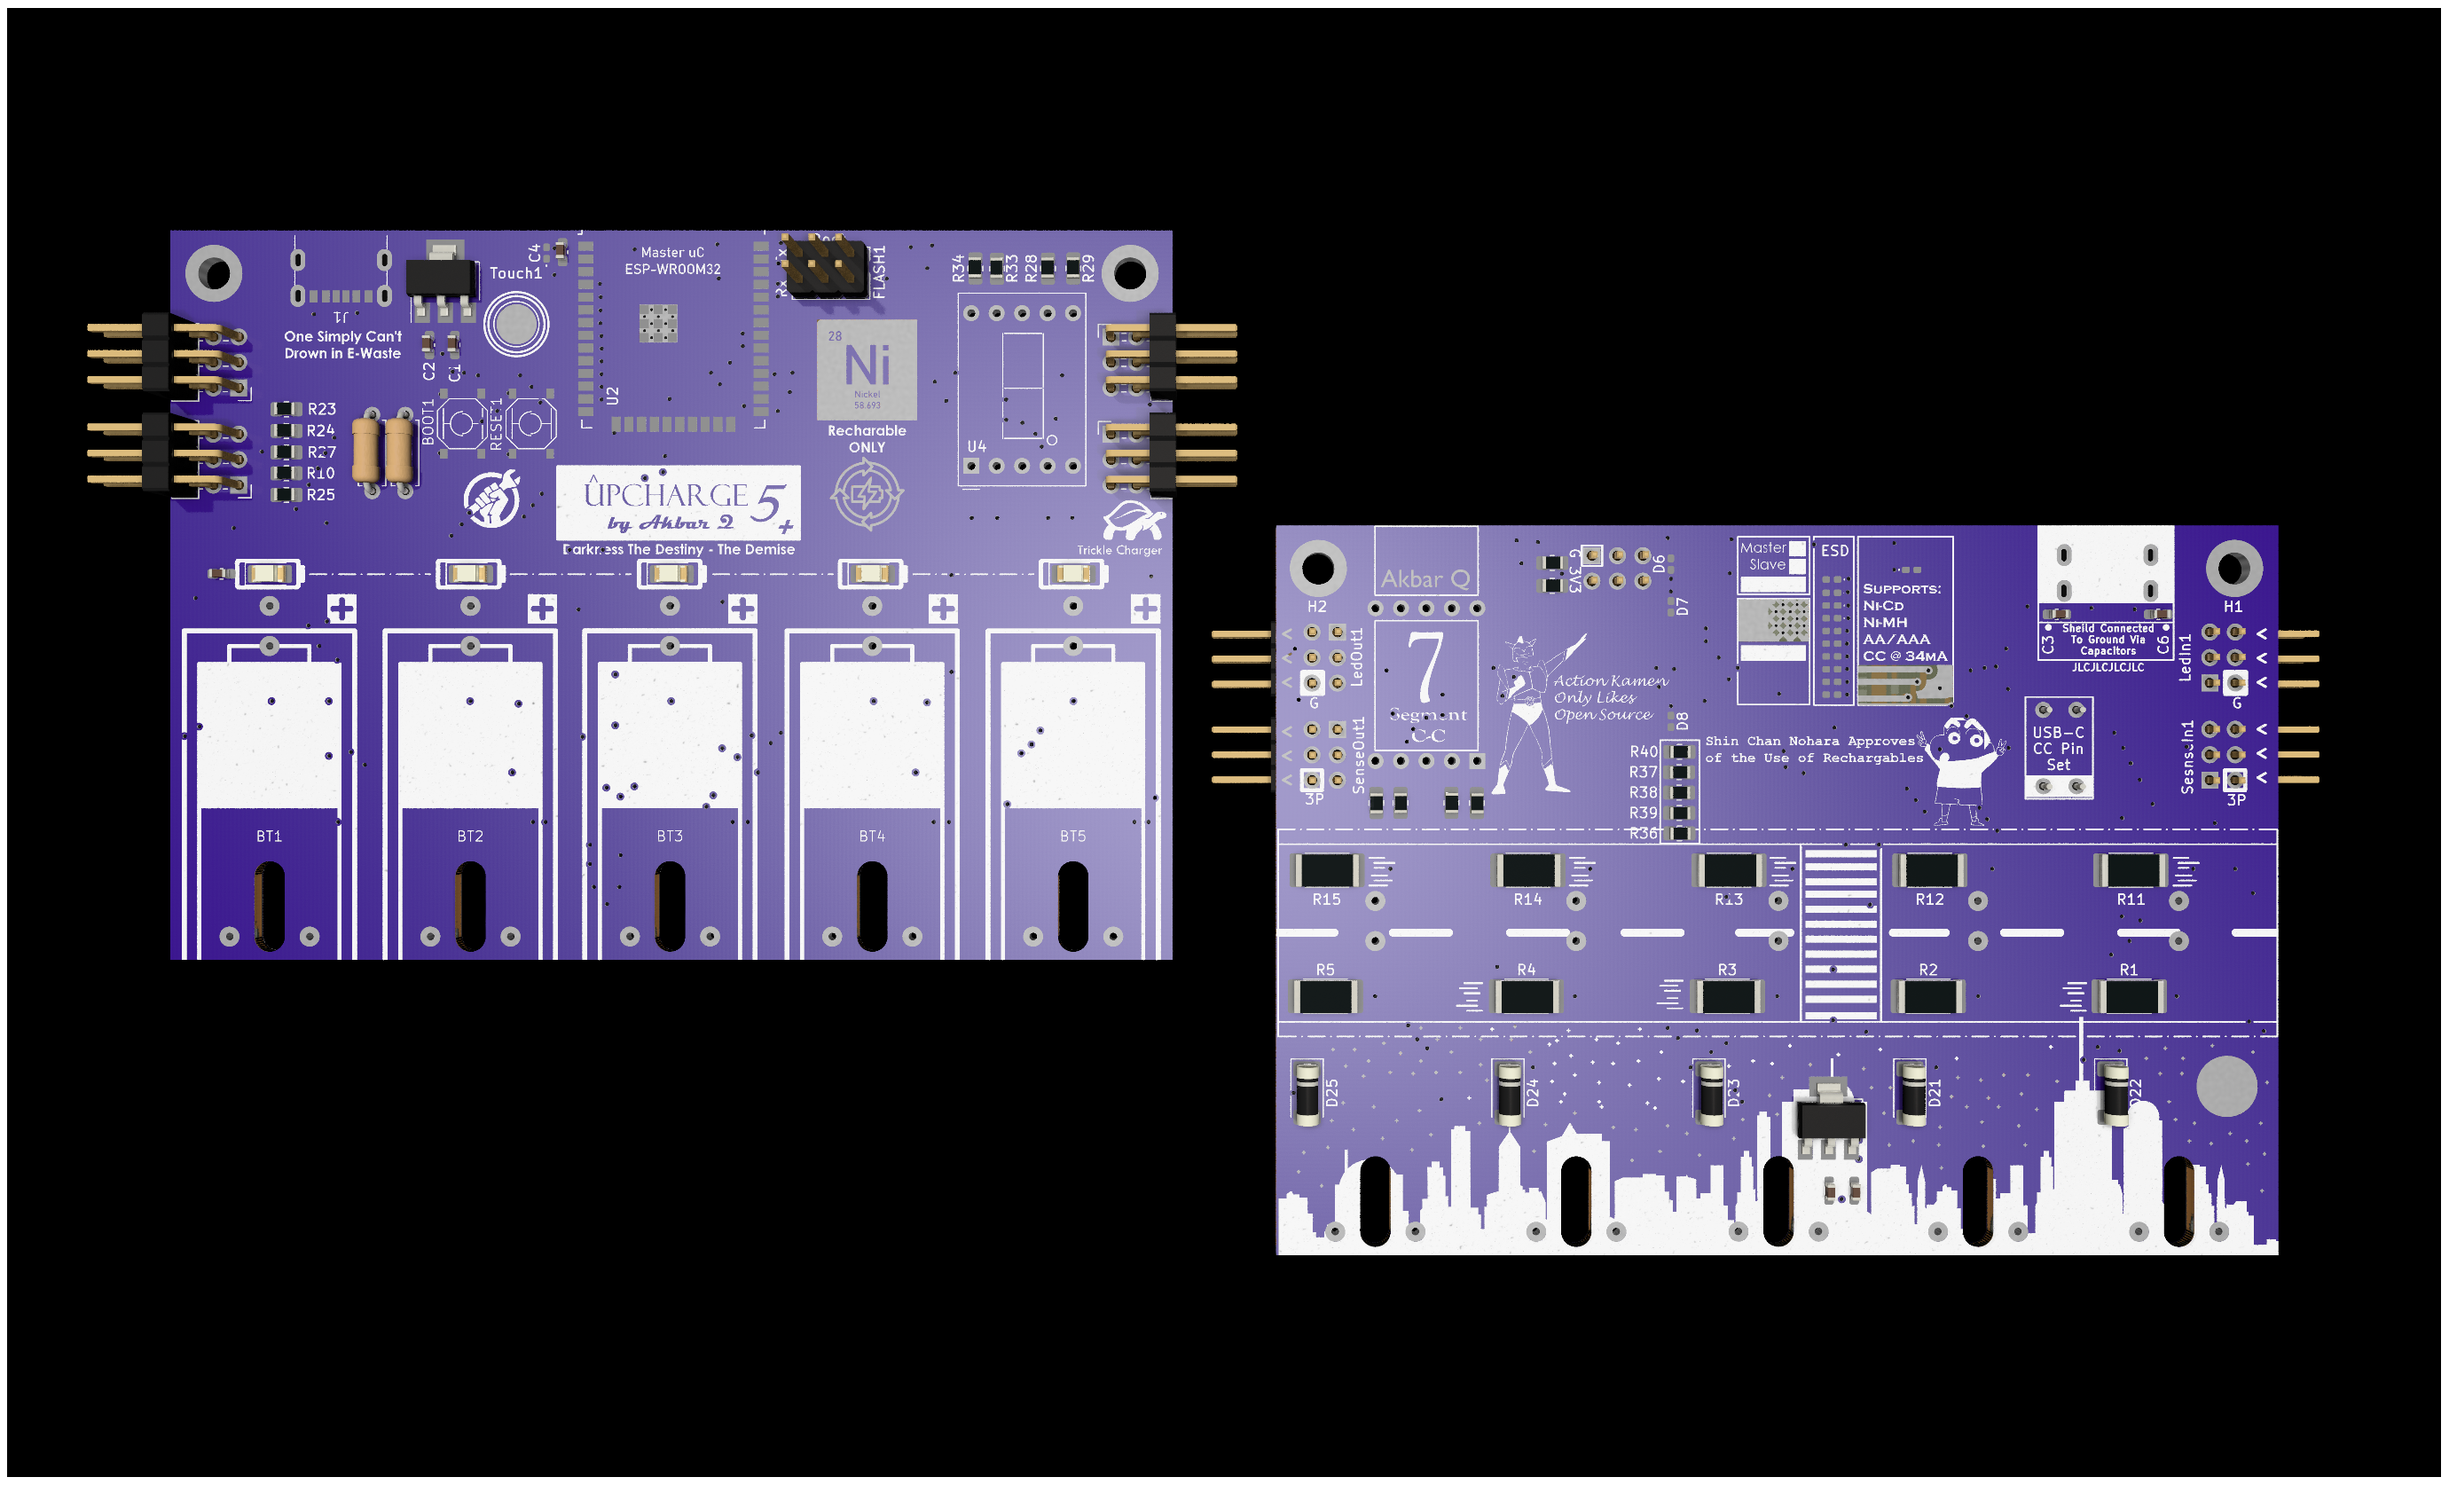
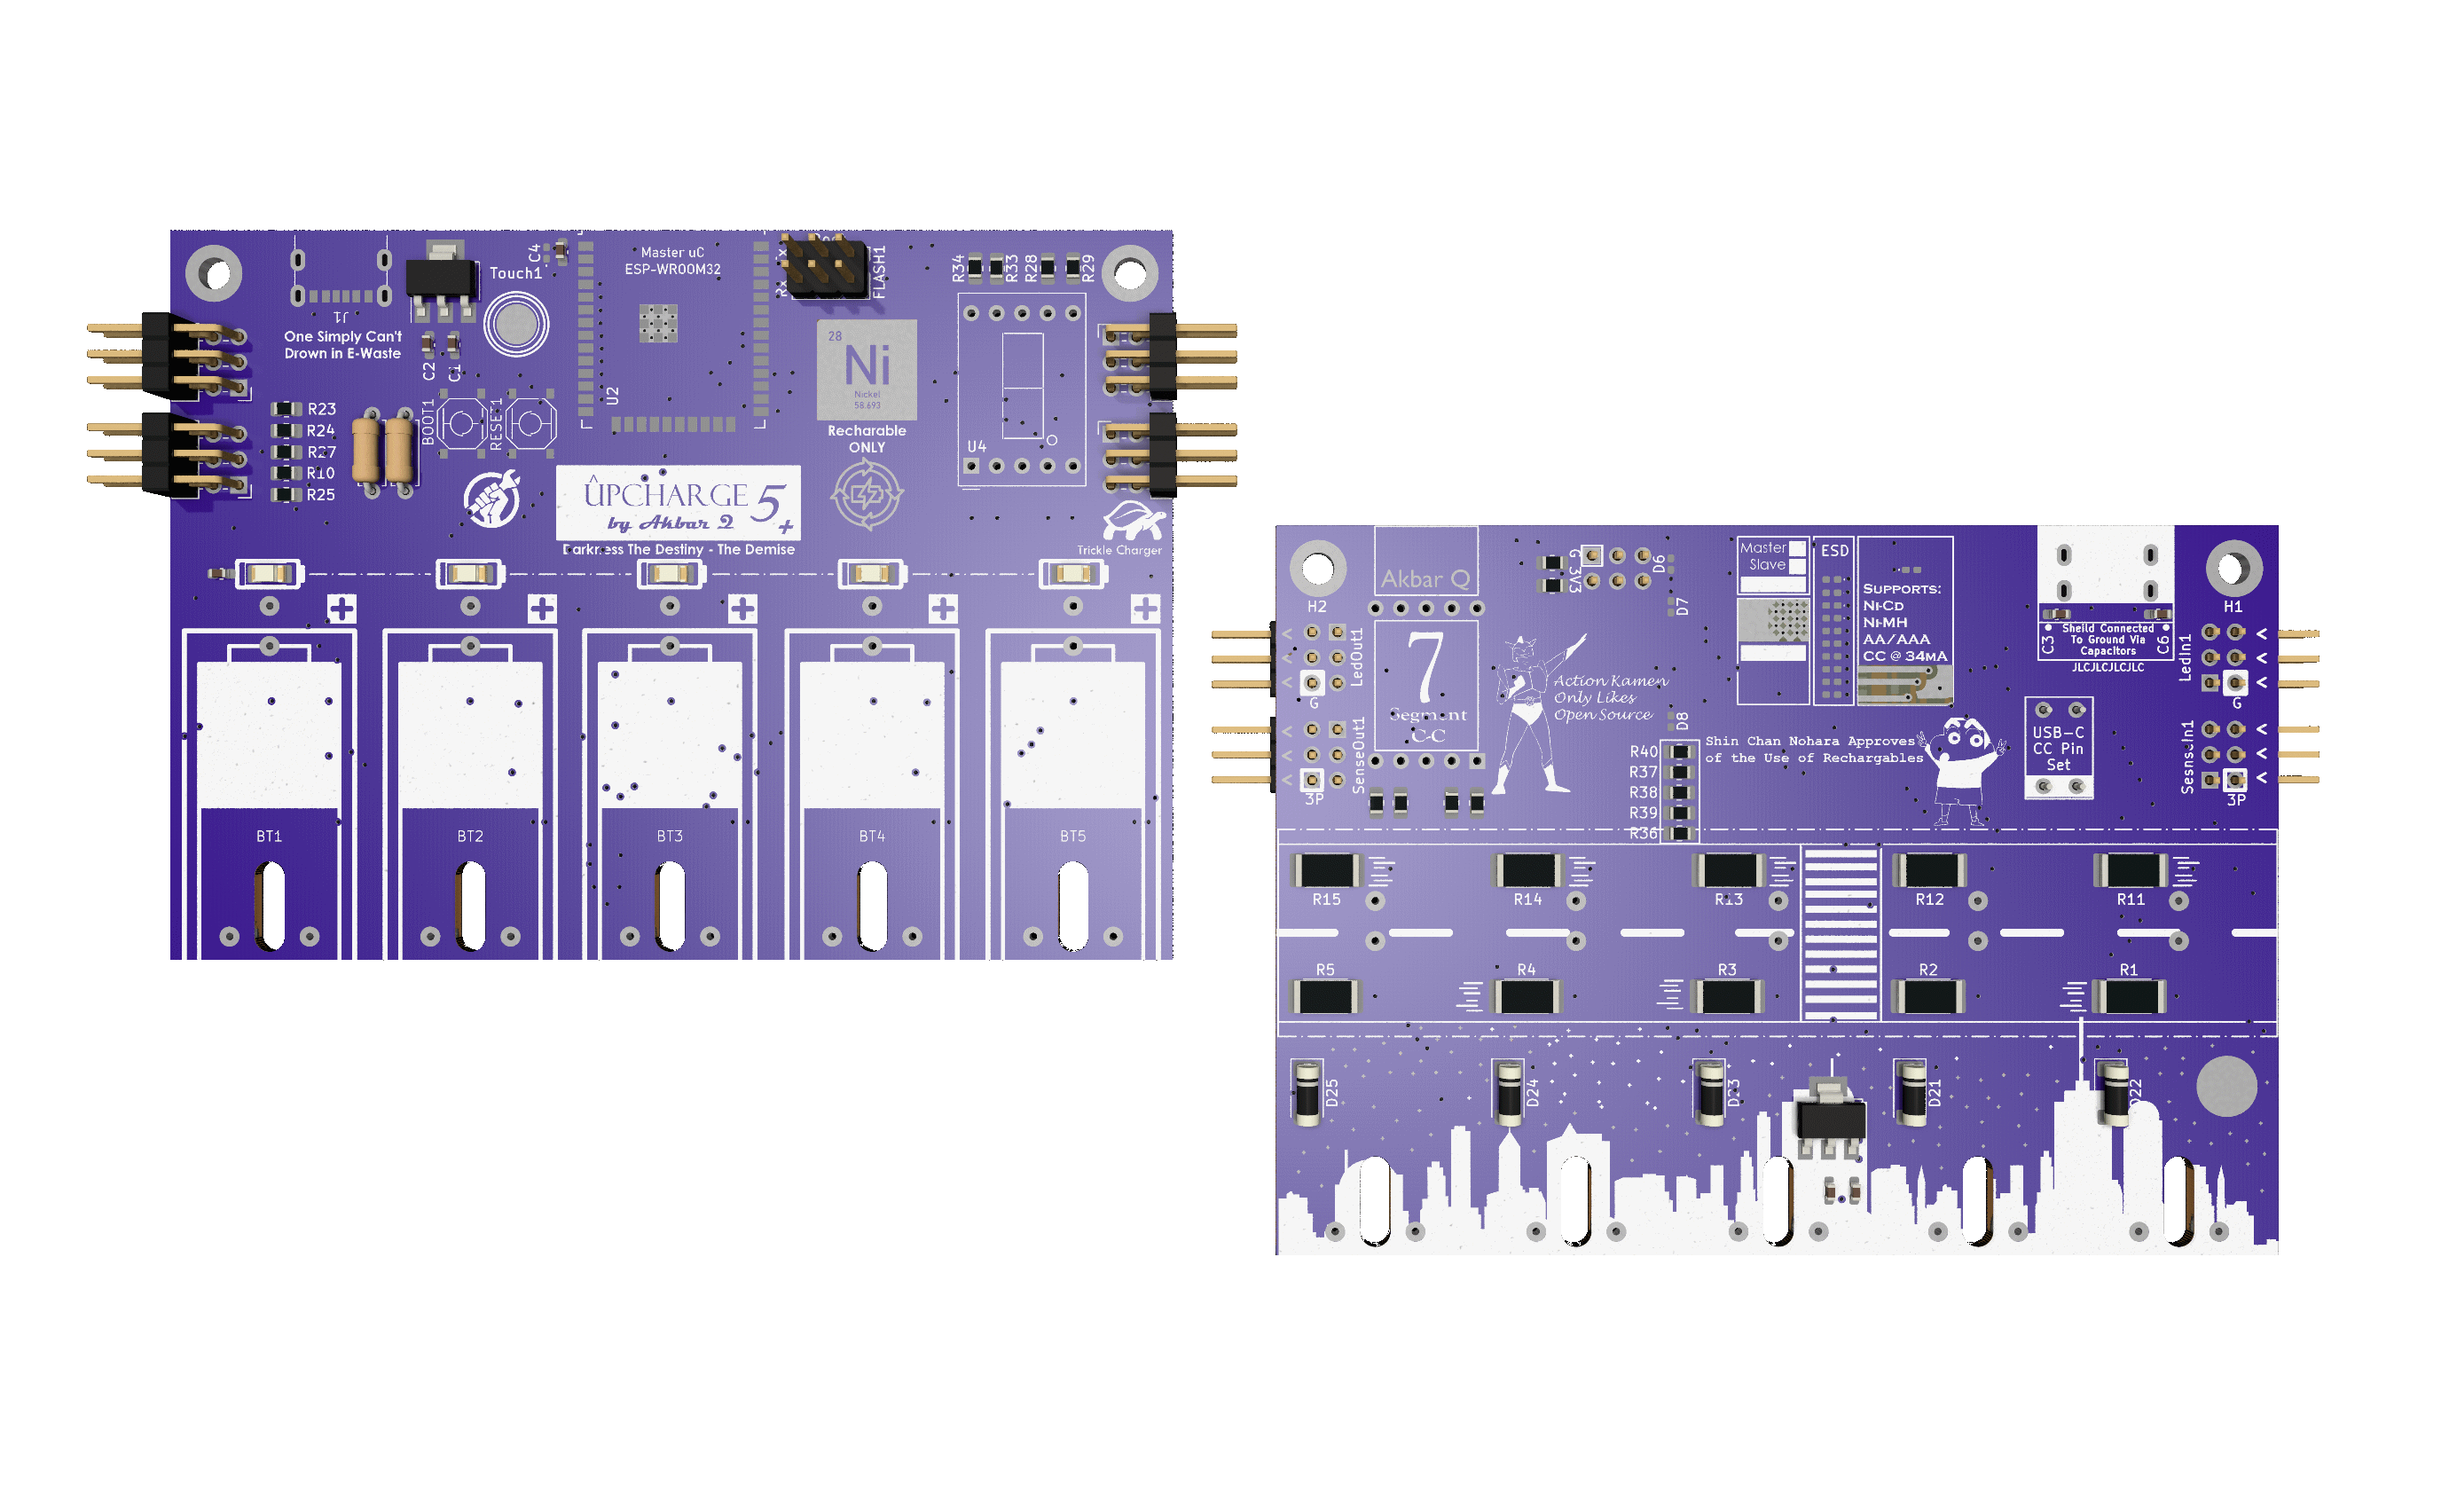
Fix Links

diff --git a/README.md b/README.md
@@ -44,6 +44,15 @@ A smart charger built for safe and reliable charging of NiMH cells in a lab or s
 
 ---
 
+### Hairpin Filters Sub 2 GHz  
+Compact UHF hairpin bandpass filters designed, simulated, and verified using VNA.
+
+**Project Folder:** `hairpin-filters-sub2ghz/`  
+**Image Gallery:**  
+![Placeholder image](images/hairpin-filters-placeholder.png)
+
+---
+
 ### PLC-Hardware  
 Rugged industrial-grade hardware designed to interface with PLCs and field IO.
 
@@ -56,18 +65,7 @@ Rugged industrial-grade hardware designed to interface with PLCs and field IO.
 **Schematic:** [View Schematic](#)  
 **PCB Layout:** [View PCB](#)  
 **Image Gallery:**  
-![Placeholder image](images/plc-hardware-placeholder.png)
-
----
-
-## Additional Projects
-
-### Battery Management Client Collab  
-Collaborative BMS system design including cell protection, balancing, and diagnostic features.
-
-**Project Folder:** `battery-management-client/`  
-**Image Gallery:**  
-![Placeholder image](images/bms-placeholder.png)
+![Placeholder image](PLC-Hardware/PLC-Hardware.png)
 
 ---
 
@@ -89,21 +87,23 @@ TTL-based binary clock project showcasing fundamental combinational and sequenti
 
 ---
 
-### Hairpin Filters Sub 2 GHz  
-Compact UHF hairpin bandpass filters designed, simulated, and verified using VNA.
-
-**Project Folder:** `hairpin-filters-sub2ghz/`  
-**Image Gallery:**  
-![Placeholder image](images/hairpin-filters-placeholder.png)
-
----
-
 ### Macro Keypad 12 Key  
 A 12-key programmable macro keypad using mechanical switches and a USB interface.
 
 **Project Folder:** `macro-keypad-12key/`  
 **Image Gallery:**  
 ![Placeholder image](images/macro-keypad-placeholder.png)
+
+---
+
+## Additional Projects
+
+### Battery Management Client Collab  
+Collaborative BMS system design including cell protection, balancing, and diagnostic features.
+
+**Project Folder:** `battery-management-client/`  
+**Image Gallery:**  
+![Placeholder image](Battery%20Management%20Client%20Collab/BMS.png)
 
 ---
 
